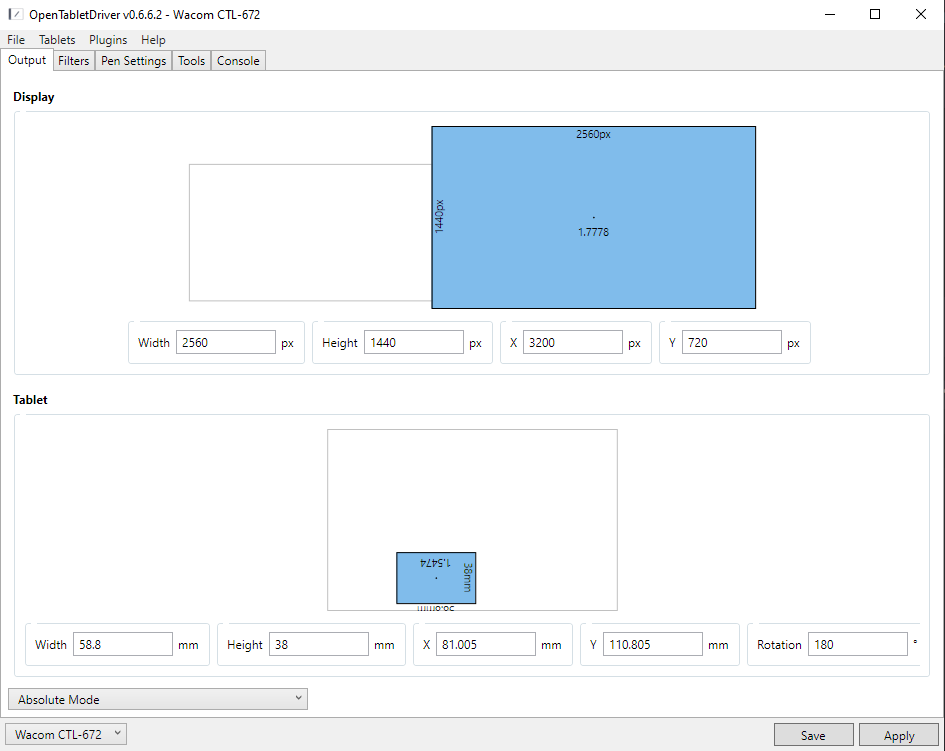
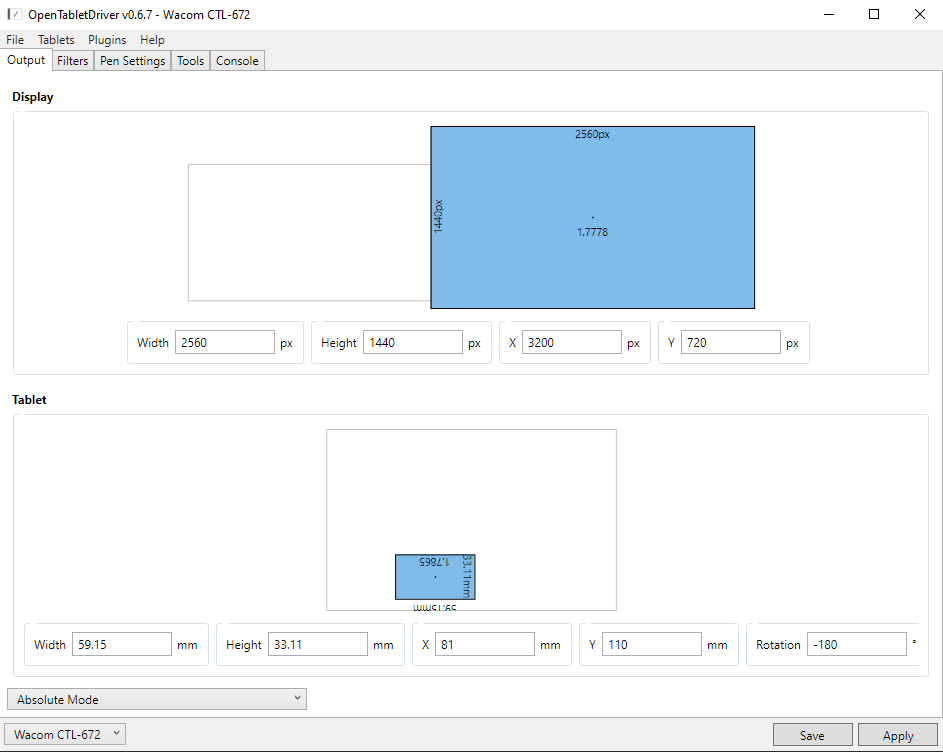
Small Bug Fixes + a little bit more

diff --git a/script.js b/script.js
@@ -7,8 +7,7 @@ const SITE_THEME_CREDITS = {
 const SITE_SETTINGS_KEYS = {
   theme: 'site-theme',
   snow: 'site-snow',
-  language: 'site-language',
-  imageOptimization: 'site-image-quality'
+  language: 'site-language'
 };
 
 function addSiteSettings() {
@@ -32,11 +31,6 @@ function addSiteSettings() {
         <input name="snow" type="checkbox">
         Snow
       </label>
-      <label class="site-settings-checkbox">
-        <input name="imageOptimization" type="checkbox">
-        Optimize image loading
-      </label>
-      <small class="site-settings-note">Loads images as needed and decodes them asynchronously. Image quality is unchanged.</small>
       <label>
         Language
         <select name="language">
@@ -51,13 +45,11 @@ function addSiteSettings() {
   const panel = settings.querySelector('.site-settings-panel');
   const themeSelect = settings.querySelector('[name="theme"]');
   const snowCheckbox = settings.querySelector('[name="snow"]');
-  const imageOptimizationCheckbox = settings.querySelector('[name="imageOptimization"]');
   const languageSelect = settings.querySelector('[name="language"]');
 
   const savedTheme = localStorage.getItem(SITE_SETTINGS_KEYS.theme);
   const savedSnow = localStorage.getItem(SITE_SETTINGS_KEYS.snow);
   const savedLanguage = localStorage.getItem(SITE_SETTINGS_KEYS.language);
-  const savedImageOptimization = localStorage.getItem(SITE_SETTINGS_KEYS.imageOptimization);
   const defaultTheme = window.SITE_DEFAULT_THEME;
   const availableThemes = Array.from(themeSelect.options, option => option.value);
   const defaultThemeOption = themeSelect.querySelector(`option[value="${defaultTheme}"]`);
@@ -69,13 +61,10 @@ function addSiteSettings() {
   themeSelect.value = theme;
   languageSelect.value = language;
   snowCheckbox.checked = savedSnow !== 'false';
-  imageOptimizationCheckbox.checked = savedImageOptimization !== 'false';
-  let imageOptimizationEnabled = imageOptimizationCheckbox.checked;
-  document.documentElement.dataset.imageOptimization = String(imageOptimizationEnabled);
 
   function configureImageLoading(image) {
-    image.loading = imageOptimizationEnabled ? 'lazy' : 'eager';
-    image.decoding = imageOptimizationEnabled ? 'async' : 'auto';
+    image.loading = 'lazy';
+    image.decoding = 'async';
   }
 
   function configureImages(root) {
@@ -115,13 +104,6 @@ function addSiteSettings() {
   snowCheckbox.addEventListener('change', () => {
     localStorage.setItem(SITE_SETTINGS_KEYS.snow, String(snowCheckbox.checked));
     window.dispatchEvent(new CustomEvent('site-snow-change', { detail: snowCheckbox.checked }));
-  });
-
-  imageOptimizationCheckbox.addEventListener('change', () => {
-    imageOptimizationEnabled = imageOptimizationCheckbox.checked;
-    document.documentElement.dataset.imageOptimization = String(imageOptimizationEnabled);
-    configureImages(document);
-    localStorage.setItem(SITE_SETTINGS_KEYS.imageOptimization, String(imageOptimizationCheckbox.checked));
   });
 
   languageSelect.addEventListener('change', () => {
@@ -545,21 +527,12 @@ document.addEventListener('DOMContentLoaded', () => {
         const source = media.dataset.src;
         if (!source) return;
         if (media instanceof HTMLImageElement) {
-          media.loading = document.documentElement.dataset.imageOptimization === 'false'
-            ? 'eager'
-            : 'lazy';
-          media.decoding = document.documentElement.dataset.imageOptimization === 'false'
-            ? 'auto'
-            : 'async';
+          media.loading = 'lazy';
+          media.decoding = 'async';
         }
         media.src = source;
         media.removeAttribute('data-src');
       };
-
-      if (document.documentElement.dataset.imageOptimization === 'false') {
-        mediaElements.forEach(loadMedia);
-        return;
-      }
 
       if (!('IntersectionObserver' in window)) {
         mediaElements.forEach(loadMedia);

diff --git a/index.html b/index.html
@@ -130,12 +130,12 @@
 <footer class="bottombar home-footer">
       <div class="bottombar-inner">
         <div class="bottombar-socials subtle">
-          <a href="https://osu.ppy.sh/users/30492121" target="_blank" rel="noopener noreferrer" title="Osu!" class="app-icon-link"><img src="https://cdn.jsdelivr.net/gh/simple-icons/simple-icons/icons/osu.svg" alt="Osu!" class="app-icon-lg"></a>
-          <a href="https://myanimelist.net/profile/MarcelBossASG" target="_blank" rel="noopener noreferrer" title="MyAnimeList" class="app-icon-link"><img src="https://cdn.jsdelivr.net/gh/simple-icons/simple-icons/icons/myanimelist.svg" alt="MAL" class="app-icon-lg"></a>
-          <a href="https://www.youtube.com/channel/UCEtJtg6iqq3BWwP77SJwvzg" target="_blank" rel="noopener noreferrer" title="YouTube" class="app-icon-link"><img src="https://cdn.jsdelivr.net/gh/simple-icons/simple-icons/icons/youtube.svg" alt="YouTube" class="app-icon-lg"></a>
-          <a href="https://steamcommunity.com/profiles/76561198247876340" target="_blank" rel="noopener noreferrer" title="Steam" class="app-icon-link"><img src="https://cdn.jsdelivr.net/gh/simple-icons/simple-icons/icons/steam.svg" alt="Steam" class="app-icon-lg"></a>
-          <a href="https://github.com/MarcelBossASG" target="_blank" rel="noopener noreferrer" title="GitHub" class="app-icon-link"><img src="https://cdn.jsdelivr.net/gh/simple-icons/simple-icons/icons/github.svg" alt="GitHub" class="app-icon-lg"></a>
-          <button class="app-icon-link copy-discord-tag" type="button" aria-label="Copy Discord username" title="Copy Discord username"><img src="https://cdn.jsdelivr.net/gh/simple-icons/simple-icons/icons/discord.svg" alt="" aria-hidden="true" class="app-icon-lg"></button>
+          <a href="https://osu.ppy.sh/users/30492121" target="_blank" rel="noopener noreferrer" title="Osu!" class="app-icon-link"><img src="/assets/osu.svg" alt="Osu!" class="app-icon-lg"></a>
+          <a href="https://myanimelist.net/profile/MarcelBossASG" target="_blank" rel="noopener noreferrer" title="MyAnimeList" class="app-icon-link"><img src="/assets/myanimelist.svg" alt="MAL" class="app-icon-lg"></a>
+          <a href="https://www.youtube.com/channel/UCEtJtg6iqq3BWwP77SJwvzg" target="_blank" rel="noopener noreferrer" title="YouTube" class="app-icon-link"><img src="/assets/youtube.svg" alt="YouTube" class="app-icon-lg"></a>
+          <a href="https://steamcommunity.com/profiles/76561198247876340" target="_blank" rel="noopener noreferrer" title="Steam" class="app-icon-link"><img src="/assets/steam.svg" alt="Steam" class="app-icon-lg"></a>
+          <a href="https://github.com/MarcelBossASG" target="_blank" rel="noopener noreferrer" title="GitHub" class="app-icon-link"><img src="/assets/github.svg" alt="GitHub" class="app-icon-lg"></a>
+          <button class="app-icon-link copy-discord-tag" type="button" aria-label="Copy Discord username" title="Copy Discord username"><img src="/assets/discord.svg" alt="" aria-hidden="true" class="app-icon-lg"></button>
         </div>
       </div>
     </footer>

diff --git a/projects/irl-stuff/index.html b/projects/irl-stuff/index.html
@@ -459,12 +459,12 @@
     <footer class="bottombar">
       <div class="bottombar-inner">
         <div class="bottombar-socials subtle">
-          <a href="https://osu.ppy.sh/users/30492121" target="_blank" rel="noopener noreferrer" title="Osu!" class="app-icon-link"><img src="https://cdn.jsdelivr.net/gh/simple-icons/simple-icons/icons/osu.svg" alt="Osu!" class="app-icon-lg"></a>
-          <a href="https://myanimelist.net/profile/MarcelBossASG" target="_blank" rel="noopener noreferrer" title="MyAnimeList" class="app-icon-link"><img src="https://cdn.jsdelivr.net/gh/simple-icons/simple-icons/icons/myanimelist.svg" alt="MAL" class="app-icon-lg"></a>
-          <a href="https://www.youtube.com/channel/UCEtJtg6iqq3BWwP77SJwvzg" target="_blank" rel="noopener noreferrer" title="YouTube" class="app-icon-link"><img src="https://cdn.jsdelivr.net/gh/simple-icons/simple-icons/icons/youtube.svg" alt="YouTube" class="app-icon-lg"></a>
-          <a href="https://steamcommunity.com/profiles/76561198247876340" target="_blank" rel="noopener noreferrer" title="Steam" class="app-icon-link"><img src="https://cdn.jsdelivr.net/gh/simple-icons/simple-icons/icons/steam.svg" alt="Steam" class="app-icon-lg"></a>
-          <a href="https://github.com/MarcelBossASG" target="_blank" rel="noopener noreferrer" title="GitHub" class="app-icon-link"><img src="https://cdn.jsdelivr.net/gh/simple-icons/simple-icons/icons/github.svg" alt="GitHub" class="app-icon-lg"></a>
-          <button class="app-icon-link copy-discord-tag" type="button" aria-label="Copy Discord username" title="Copy Discord username"><img src="https://cdn.jsdelivr.net/gh/simple-icons/simple-icons/icons/discord.svg" alt="" aria-hidden="true" class="app-icon-lg"></button>
+          <a href="https://osu.ppy.sh/users/30492121" target="_blank" rel="noopener noreferrer" title="Osu!" class="app-icon-link"><img src="/assets/osu.svg" alt="Osu!" class="app-icon-lg"></a>
+          <a href="https://myanimelist.net/profile/MarcelBossASG" target="_blank" rel="noopener noreferrer" title="MyAnimeList" class="app-icon-link"><img src="/assets/myanimelist.svg" alt="MAL" class="app-icon-lg"></a>
+          <a href="https://www.youtube.com/channel/UCEtJtg6iqq3BWwP77SJwvzg" target="_blank" rel="noopener noreferrer" title="YouTube" class="app-icon-link"><img src="/assets/youtube.svg" alt="YouTube" class="app-icon-lg"></a>
+          <a href="https://steamcommunity.com/profiles/76561198247876340" target="_blank" rel="noopener noreferrer" title="Steam" class="app-icon-link"><img src="/assets/steam.svg" alt="Steam" class="app-icon-lg"></a>
+          <a href="https://github.com/MarcelBossASG" target="_blank" rel="noopener noreferrer" title="GitHub" class="app-icon-link"><img src="/assets/github.svg" alt="GitHub" class="app-icon-lg"></a>
+          <button class="app-icon-link copy-discord-tag" type="button" aria-label="Copy Discord username" title="Copy Discord username"><img src="/assets/discord.svg" alt="" aria-hidden="true" class="app-icon-lg"></button>
         </div>
       </div>
     </footer>

diff --git a/about/index.html b/about/index.html
@@ -70,12 +70,12 @@
     <footer class="bottombar">
       <div class="bottombar-inner">
         <div class="bottombar-socials subtle">
-          <a href="https://osu.ppy.sh/users/30492121" target="_blank" rel="noopener noreferrer" title="Osu!" class="app-icon-link"><img src="https://cdn.jsdelivr.net/gh/simple-icons/simple-icons/icons/osu.svg" alt="Osu!" class="app-icon-lg"></a>
-          <a href="https://myanimelist.net/profile/MarcelBossASG" target="_blank" rel="noopener noreferrer" title="MyAnimeList" class="app-icon-link"><img src="https://cdn.jsdelivr.net/gh/simple-icons/simple-icons/icons/myanimelist.svg" alt="MAL" class="app-icon-lg"></a>
-          <a href="https://www.youtube.com/channel/UCEtJtg6iqq3BWwP77SJwvzg" target="_blank" rel="noopener noreferrer" title="YouTube" class="app-icon-link"><img src="https://cdn.jsdelivr.net/gh/simple-icons/simple-icons/icons/youtube.svg" alt="YouTube" class="app-icon-lg"></a>
-          <a href="https://steamcommunity.com/profiles/76561198247876340" target="_blank" rel="noopener noreferrer" title="Steam" class="app-icon-link"><img src="https://cdn.jsdelivr.net/gh/simple-icons/simple-icons/icons/steam.svg" alt="Steam" class="app-icon-lg"></a>
-          <a href="https://github.com/MarcelBossASG" target="_blank" rel="noopener noreferrer" title="GitHub" class="app-icon-link"><img src="https://cdn.jsdelivr.net/gh/simple-icons/simple-icons/icons/github.svg" alt="GitHub" class="app-icon-lg"></a>
-          <button class="app-icon-link copy-discord-tag" type="button" aria-label="Copy Discord username" title="Copy Discord username"><img src="https://cdn.jsdelivr.net/gh/simple-icons/simple-icons/icons/discord.svg" alt="" aria-hidden="true" class="app-icon-lg"></button>
+          <a href="https://osu.ppy.sh/users/30492121" target="_blank" rel="noopener noreferrer" title="Osu!" class="app-icon-link"><img src="/assets/osu.svg" alt="Osu!" class="app-icon-lg"></a>
+          <a href="https://myanimelist.net/profile/MarcelBossASG" target="_blank" rel="noopener noreferrer" title="MyAnimeList" class="app-icon-link"><img src="/assets/myanimelist.svg" alt="MAL" class="app-icon-lg"></a>
+          <a href="https://www.youtube.com/channel/UCEtJtg6iqq3BWwP77SJwvzg" target="_blank" rel="noopener noreferrer" title="YouTube" class="app-icon-link"><img src="/assets/youtube.svg" alt="YouTube" class="app-icon-lg"></a>
+          <a href="https://steamcommunity.com/profiles/76561198247876340" target="_blank" rel="noopener noreferrer" title="Steam" class="app-icon-link"><img src="/assets/steam.svg" alt="Steam" class="app-icon-lg"></a>
+          <a href="https://github.com/MarcelBossASG" target="_blank" rel="noopener noreferrer" title="GitHub" class="app-icon-link"><img src="/assets/github.svg" alt="GitHub" class="app-icon-lg"></a>
+          <button class="app-icon-link copy-discord-tag" type="button" aria-label="Copy Discord username" title="Copy Discord username"><img src="/assets/discord.svg" alt="" aria-hidden="true" class="app-icon-lg"></button>
         </div>
       </div>
     </footer>

diff --git a/projects/asgians/index.html b/projects/asgians/index.html
@@ -65,12 +65,12 @@
     <footer class="bottombar">
       <div class="bottombar-inner">
         <div class="bottombar-socials subtle">
-          <a href="https://osu.ppy.sh/users/30492121" target="_blank" rel="noopener noreferrer" title="Osu!" class="app-icon-link"><img src="https://cdn.jsdelivr.net/gh/simple-icons/simple-icons/icons/osu.svg" alt="Osu!" class="app-icon-lg"></a>
-          <a href="https://myanimelist.net/profile/MarcelBossASG" target="_blank" rel="noopener noreferrer" title="MyAnimeList" class="app-icon-link"><img src="https://cdn.jsdelivr.net/gh/simple-icons/simple-icons/icons/myanimelist.svg" alt="MAL" class="app-icon-lg"></a>
-          <a href="https://www.youtube.com/channel/UCEtJtg6iqq3BWwP77SJwvzg" target="_blank" rel="noopener noreferrer" title="YouTube" class="app-icon-link"><img src="https://cdn.jsdelivr.net/gh/simple-icons/simple-icons/icons/youtube.svg" alt="YouTube" class="app-icon-lg"></a>
-          <a href="https://steamcommunity.com/profiles/76561198247876340" target="_blank" rel="noopener noreferrer" title="Steam" class="app-icon-link"><img src="https://cdn.jsdelivr.net/gh/simple-icons/simple-icons/icons/steam.svg" alt="Steam" class="app-icon-lg"></a>
-          <a href="https://github.com/MarcelBossASG" target="_blank" rel="noopener noreferrer" title="GitHub" class="app-icon-link"><img src="https://cdn.jsdelivr.net/gh/simple-icons/simple-icons/icons/github.svg" alt="GitHub" class="app-icon-lg"></a>
-          <button class="app-icon-link copy-discord-tag" type="button" aria-label="Copy Discord username" title="Copy Discord username"><img src="https://cdn.jsdelivr.net/gh/simple-icons/simple-icons/icons/discord.svg" alt="" aria-hidden="true" class="app-icon-lg"></button>
+          <a href="https://osu.ppy.sh/users/30492121" target="_blank" rel="noopener noreferrer" title="Osu!" class="app-icon-link"><img src="/assets/osu.svg" alt="Osu!" class="app-icon-lg"></a>
+          <a href="https://myanimelist.net/profile/MarcelBossASG" target="_blank" rel="noopener noreferrer" title="MyAnimeList" class="app-icon-link"><img src="/assets/myanimelist.svg" alt="MAL" class="app-icon-lg"></a>
+          <a href="https://www.youtube.com/channel/UCEtJtg6iqq3BWwP77SJwvzg" target="_blank" rel="noopener noreferrer" title="YouTube" class="app-icon-link"><img src="/assets/youtube.svg" alt="YouTube" class="app-icon-lg"></a>
+          <a href="https://steamcommunity.com/profiles/76561198247876340" target="_blank" rel="noopener noreferrer" title="Steam" class="app-icon-link"><img src="/assets/steam.svg" alt="Steam" class="app-icon-lg"></a>
+          <a href="https://github.com/MarcelBossASG" target="_blank" rel="noopener noreferrer" title="GitHub" class="app-icon-link"><img src="/assets/github.svg" alt="GitHub" class="app-icon-lg"></a>
+          <button class="app-icon-link copy-discord-tag" type="button" aria-label="Copy Discord username" title="Copy Discord username"><img src="/assets/discord.svg" alt="" aria-hidden="true" class="app-icon-lg"></button>
         </div>
       </div>
     </footer>

diff --git a/projects/index.html b/projects/index.html
@@ -93,12 +93,12 @@
     <footer class="bottombar">
       <div class="bottombar-inner">
         <div class="bottombar-socials subtle">
-          <a href="https://osu.ppy.sh/users/30492121" target="_blank" rel="noopener noreferrer" title="Osu!" class="app-icon-link"><img src="https://cdn.jsdelivr.net/gh/simple-icons/simple-icons/icons/osu.svg" alt="Osu!" class="app-icon-lg"></a>
-          <a href="https://myanimelist.net/profile/MarcelBossASG" target="_blank" rel="noopener noreferrer" title="MyAnimeList" class="app-icon-link"><img src="https://cdn.jsdelivr.net/gh/simple-icons/simple-icons/icons/myanimelist.svg" alt="MAL" class="app-icon-lg"></a>
-          <a href="https://www.youtube.com/channel/UCEtJtg6iqq3BWwP77SJwvzg" target="_blank" rel="noopener noreferrer" title="YouTube" class="app-icon-link"><img src="https://cdn.jsdelivr.net/gh/simple-icons/simple-icons/icons/youtube.svg" alt="YouTube" class="app-icon-lg"></a>
-          <a href="https://steamcommunity.com/profiles/76561198247876340" target="_blank" rel="noopener noreferrer" title="Steam" class="app-icon-link"><img src="https://cdn.jsdelivr.net/gh/simple-icons/simple-icons/icons/steam.svg" alt="Steam" class="app-icon-lg"></a>
-          <a href="https://github.com/MarcelBossASG" target="_blank" rel="noopener noreferrer" title="GitHub" class="app-icon-link"><img src="https://cdn.jsdelivr.net/gh/simple-icons/simple-icons/icons/github.svg" alt="GitHub" class="app-icon-lg"></a>
-          <button class="app-icon-link copy-discord-tag" type="button" aria-label="Copy Discord username" title="Copy Discord username"><img src="https://cdn.jsdelivr.net/gh/simple-icons/simple-icons/icons/discord.svg" alt="" aria-hidden="true" class="app-icon-lg"></button>
+          <a href="https://osu.ppy.sh/users/30492121" target="_blank" rel="noopener noreferrer" title="Osu!" class="app-icon-link"><img src="/assets/osu.svg" alt="Osu!" class="app-icon-lg"></a>
+          <a href="https://myanimelist.net/profile/MarcelBossASG" target="_blank" rel="noopener noreferrer" title="MyAnimeList" class="app-icon-link"><img src="/assets/myanimelist.svg" alt="MAL" class="app-icon-lg"></a>
+          <a href="https://www.youtube.com/channel/UCEtJtg6iqq3BWwP77SJwvzg" target="_blank" rel="noopener noreferrer" title="YouTube" class="app-icon-link"><img src="/assets/youtube.svg" alt="YouTube" class="app-icon-lg"></a>
+          <a href="https://steamcommunity.com/profiles/76561198247876340" target="_blank" rel="noopener noreferrer" title="Steam" class="app-icon-link"><img src="/assets/steam.svg" alt="Steam" class="app-icon-lg"></a>
+          <a href="https://github.com/MarcelBossASG" target="_blank" rel="noopener noreferrer" title="GitHub" class="app-icon-link"><img src="/assets/github.svg" alt="GitHub" class="app-icon-lg"></a>
+          <button class="app-icon-link copy-discord-tag" type="button" aria-label="Copy Discord username" title="Copy Discord username"><img src="/assets/discord.svg" alt="" aria-hidden="true" class="app-icon-lg"></button>
         </div>
       </div>
     </footer>

diff --git a/projects/nuclear-research/index.html b/projects/nuclear-research/index.html
@@ -60,12 +60,12 @@
     <footer class="bottombar">
       <div class="bottombar-inner">
         <div class="bottombar-socials subtle">
-          <a href="https://osu.ppy.sh/users/30492121" target="_blank" rel="noopener noreferrer" title="Osu!" class="app-icon-link"><img src="https://cdn.jsdelivr.net/gh/simple-icons/simple-icons/icons/osu.svg" alt="Osu!" class="app-icon-lg"></a>
-          <a href="https://myanimelist.net/profile/MarcelBossASG" target="_blank" rel="noopener noreferrer" title="MyAnimeList" class="app-icon-link"><img src="https://cdn.jsdelivr.net/gh/simple-icons/simple-icons/icons/myanimelist.svg" alt="MAL" class="app-icon-lg"></a>
-          <a href="https://www.youtube.com/channel/UCEtJtg6iqq3BWwP77SJwvzg" target="_blank" rel="noopener noreferrer" title="YouTube" class="app-icon-link"><img src="https://cdn.jsdelivr.net/gh/simple-icons/simple-icons/icons/youtube.svg" alt="YouTube" class="app-icon-lg"></a>
-          <a href="https://steamcommunity.com/profiles/76561198247876340" target="_blank" rel="noopener noreferrer" title="Steam" class="app-icon-link"><img src="https://cdn.jsdelivr.net/gh/simple-icons/simple-icons/icons/steam.svg" alt="Steam" class="app-icon-lg"></a>
-          <a href="https://github.com/MarcelBossASG" target="_blank" rel="noopener noreferrer" title="GitHub" class="app-icon-link"><img src="https://cdn.jsdelivr.net/gh/simple-icons/simple-icons/icons/github.svg" alt="GitHub" class="app-icon-lg"></a>
-          <button class="app-icon-link copy-discord-tag" type="button" aria-label="Copy Discord username" title="Copy Discord username"><img src="https://cdn.jsdelivr.net/gh/simple-icons/simple-icons/icons/discord.svg" alt="" aria-hidden="true" class="app-icon-lg"></button>
+          <a href="https://osu.ppy.sh/users/30492121" target="_blank" rel="noopener noreferrer" title="Osu!" class="app-icon-link"><img src="/assets/osu.svg" alt="Osu!" class="app-icon-lg"></a>
+          <a href="https://myanimelist.net/profile/MarcelBossASG" target="_blank" rel="noopener noreferrer" title="MyAnimeList" class="app-icon-link"><img src="/assets/myanimelist.svg" alt="MAL" class="app-icon-lg"></a>
+          <a href="https://www.youtube.com/channel/UCEtJtg6iqq3BWwP77SJwvzg" target="_blank" rel="noopener noreferrer" title="YouTube" class="app-icon-link"><img src="/assets/youtube.svg" alt="YouTube" class="app-icon-lg"></a>
+          <a href="https://steamcommunity.com/profiles/76561198247876340" target="_blank" rel="noopener noreferrer" title="Steam" class="app-icon-link"><img src="/assets/steam.svg" alt="Steam" class="app-icon-lg"></a>
+          <a href="https://github.com/MarcelBossASG" target="_blank" rel="noopener noreferrer" title="GitHub" class="app-icon-link"><img src="/assets/github.svg" alt="GitHub" class="app-icon-lg"></a>
+          <button class="app-icon-link copy-discord-tag" type="button" aria-label="Copy Discord username" title="Copy Discord username"><img src="/assets/discord.svg" alt="" aria-hidden="true" class="app-icon-lg"></button>
         </div>
       </div>
     </footer>

diff --git a/blog/index.html b/blog/index.html
@@ -74,12 +74,12 @@
   <footer class="bottombar">
     <div class="bottombar-inner">
       <div class="bottombar-socials subtle">
-        <a href="https://osu.ppy.sh/users/30492121" target="_blank" rel="noopener noreferrer" title="Osu!" class="app-icon-link"><img src="https://cdn.jsdelivr.net/gh/simple-icons/simple-icons/icons/osu.svg" alt="Osu!" class="app-icon-lg"></a>
-        <a href="https://myanimelist.net/profile/MarcelBossASG" target="_blank" rel="noopener noreferrer" title="MyAnimeList" class="app-icon-link"><img src="https://cdn.jsdelivr.net/gh/simple-icons/simple-icons/icons/myanimelist.svg" alt="MAL" class="app-icon-lg"></a>
-        <a href="https://www.youtube.com/channel/UCEtJtg6iqq3BWwP77SJwvzg" target="_blank" rel="noopener noreferrer" title="YouTube" class="app-icon-link"><img src="https://cdn.jsdelivr.net/gh/simple-icons/simple-icons/icons/youtube.svg" alt="YouTube" class="app-icon-lg"></a>
-        <a href="https://steamcommunity.com/profiles/76561198247876340" target="_blank" rel="noopener noreferrer" title="Steam" class="app-icon-link"><img src="https://cdn.jsdelivr.net/gh/simple-icons/simple-icons/icons/steam.svg" alt="Steam" class="app-icon-lg"></a>
-        <a href="https://github.com/MarcelBossASG" target="_blank" rel="noopener noreferrer" title="GitHub" class="app-icon-link"><img src="https://cdn.jsdelivr.net/gh/simple-icons/simple-icons/icons/github.svg" alt="GitHub" class="app-icon-lg"></a>
-        <button class="app-icon-link copy-discord-tag" type="button" aria-label="Copy Discord username" title="Copy Discord username"><img src="https://cdn.jsdelivr.net/gh/simple-icons/simple-icons/icons/discord.svg" alt="" aria-hidden="true" class="app-icon-lg"></button>
+        <a href="https://osu.ppy.sh/users/30492121" target="_blank" rel="noopener noreferrer" title="Osu!" class="app-icon-link"><img src="/assets/osu.svg" alt="Osu!" class="app-icon-lg"></a>
+        <a href="https://myanimelist.net/profile/MarcelBossASG" target="_blank" rel="noopener noreferrer" title="MyAnimeList" class="app-icon-link"><img src="/assets/myanimelist.svg" alt="MAL" class="app-icon-lg"></a>
+        <a href="https://www.youtube.com/channel/UCEtJtg6iqq3BWwP77SJwvzg" target="_blank" rel="noopener noreferrer" title="YouTube" class="app-icon-link"><img src="/assets/youtube.svg" alt="YouTube" class="app-icon-lg"></a>
+        <a href="https://steamcommunity.com/profiles/76561198247876340" target="_blank" rel="noopener noreferrer" title="Steam" class="app-icon-link"><img src="/assets/steam.svg" alt="Steam" class="app-icon-lg"></a>
+        <a href="https://github.com/MarcelBossASG" target="_blank" rel="noopener noreferrer" title="GitHub" class="app-icon-link"><img src="/assets/github.svg" alt="GitHub" class="app-icon-lg"></a>
+        <button class="app-icon-link copy-discord-tag" type="button" aria-label="Copy Discord username" title="Copy Discord username"><img src="/assets/discord.svg" alt="" aria-hidden="true" class="app-icon-lg"></button>
       </div>
     </div>
   </footer>

diff --git a/711-anime-girl-dating-simulator/index.html b/711-anime-girl-dating-simulator/index.html
@@ -41,7 +41,7 @@
   </nav>
 
   <section class="hero" id="home">
-    <img class="hero-img" src="assets/images/background.png" alt="Banner" loading="eager" decoding="async">
+    <img class="hero-img" src="assets/images/background.png" alt="Banner">
     <div class="hero-overlay"></div>
     <div class="hero-content">
       <h1 class="title">7/11 Anime Girl Dating Simulator</h1>
@@ -54,7 +54,7 @@
 
   <section class="features" id="features">
     <div class="feature">
-      <img src="assets/images/staff.png" alt="Store Counter" loading="lazy" decoding="async">
+      <img src="assets/images/staff.png" alt="Store Counter">
       <div class="feature-text">
         <h2>Meet the Staff</h2>
         <p>Each cashier has secrets. Engage in emotional dialogues, maybe unlock hidden routes.</p>
@@ -62,7 +62,7 @@
     </div>
 
     <div class="feature reverse">
-      <img src="assets/images/storeshelf.png" alt="Store Aisle" loading="lazy" decoding="async">
+      <img src="assets/images/storeshelf.png" alt="Store Aisle">
       <div class="feature-text">
         <h2>Life of a Convenience Store</h2>
         <p>Realistic 7/11 aisle views, ambient slurpee machines, and existential questions about refrigerated sushi.</p>
@@ -70,7 +70,7 @@
     </div>
 
     <div class="feature">
-      <img src="assets/images/gameplay.png" alt="Gameplay" loading="lazy" decoding="async">
+      <img src="assets/images/gameplay.png" alt="Gameplay">
       <div class="feature-text">
         <h2>Gameplay & Choices</h2>
         <p>Decide between bold romance or awkward small talk. Multiple endings based on your snack purchases.</p>

diff --git a/711-anime-girl-dating-simulator/script.js b/711-anime-girl-dating-simulator/script.js
@@ -1,4 +1,3 @@
-const optimizeImages = localStorage.getItem('site-image-quality') !== 'false';
 document.querySelectorAll('img').forEach(image => {
   const rect = image.getBoundingClientRect();
   const isInViewport = image.getClientRects().length > 0 &&
@@ -6,8 +5,8 @@ document.querySelectorAll('img').forEach(image => {
     rect.top <= window.innerHeight &&
     rect.right >= 0 &&
     rect.left <= window.innerWidth;
-  image.loading = optimizeImages && !isInViewport ? 'lazy' : 'eager';
-  image.decoding = optimizeImages ? 'async' : 'auto';
+  image.loading = isInViewport ? 'eager' : 'lazy';
+  image.decoding = 'async';
 });
 
 const bgm = document.getElementById('bgm');

diff --git a/style.css b/style.css
@@ -1088,13 +1088,6 @@ html, body {
   top: calc(100% - 1px);
 }
 
-.site-settings-note {
-  color: var(--color-text-muted);
-  font-size: 0.78rem;
-  line-height: 1.35;
-  margin-top: -9px;
-}
-
 .site-settings-panel h2 {
   margin: 0;
   color: var(--color-accent-light);
